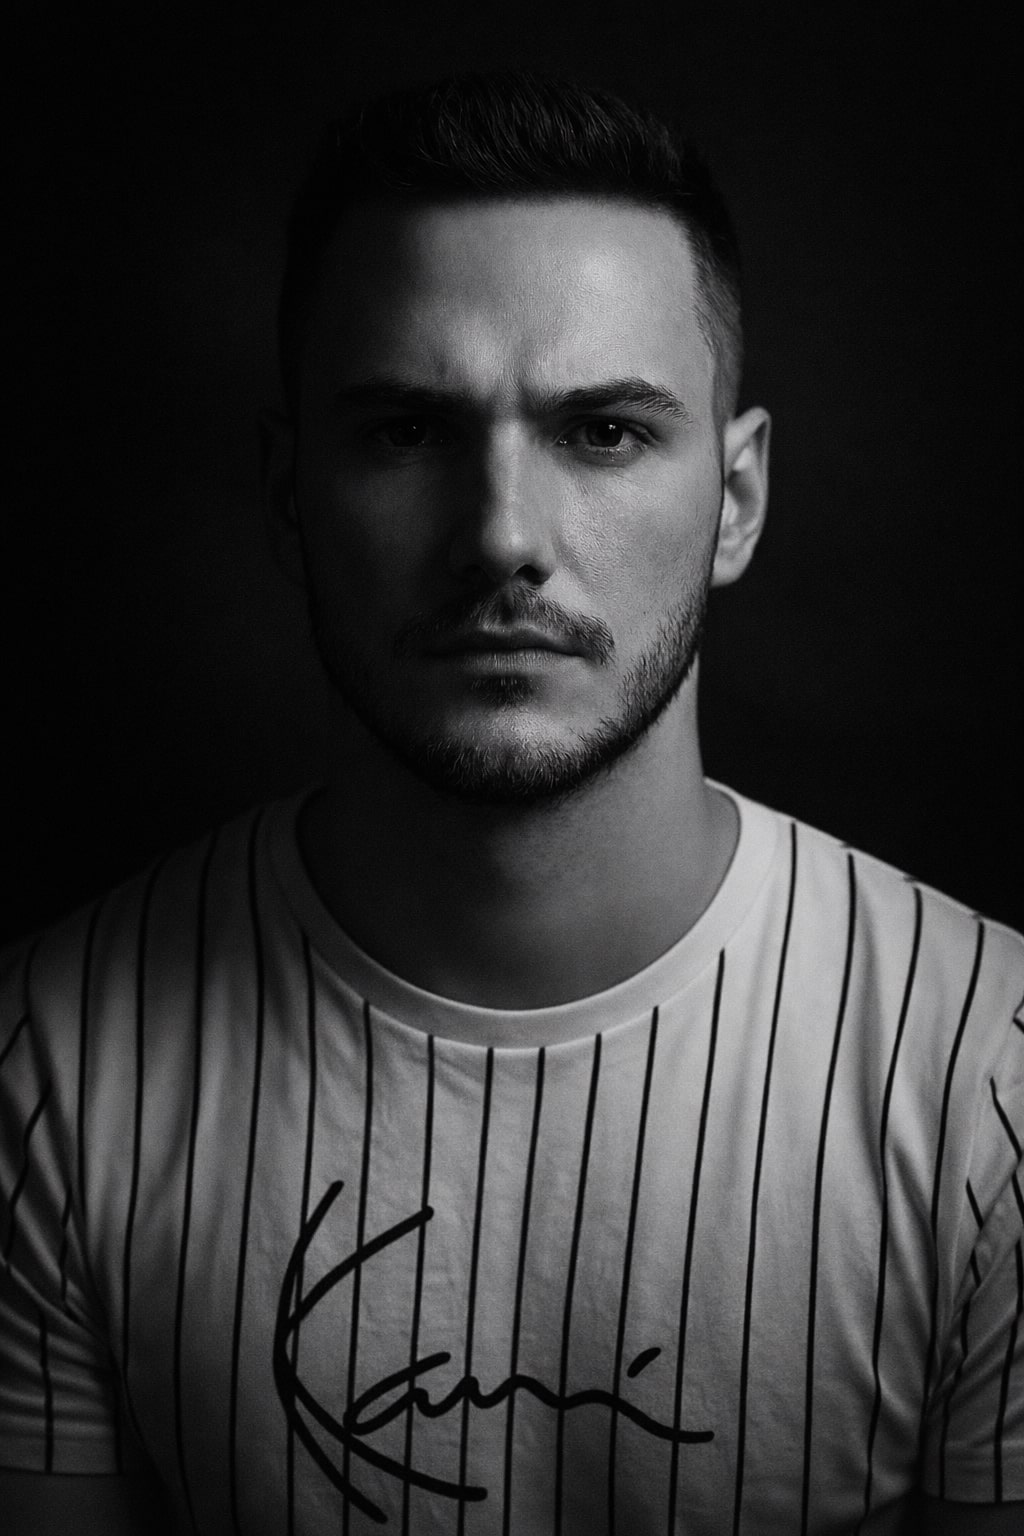
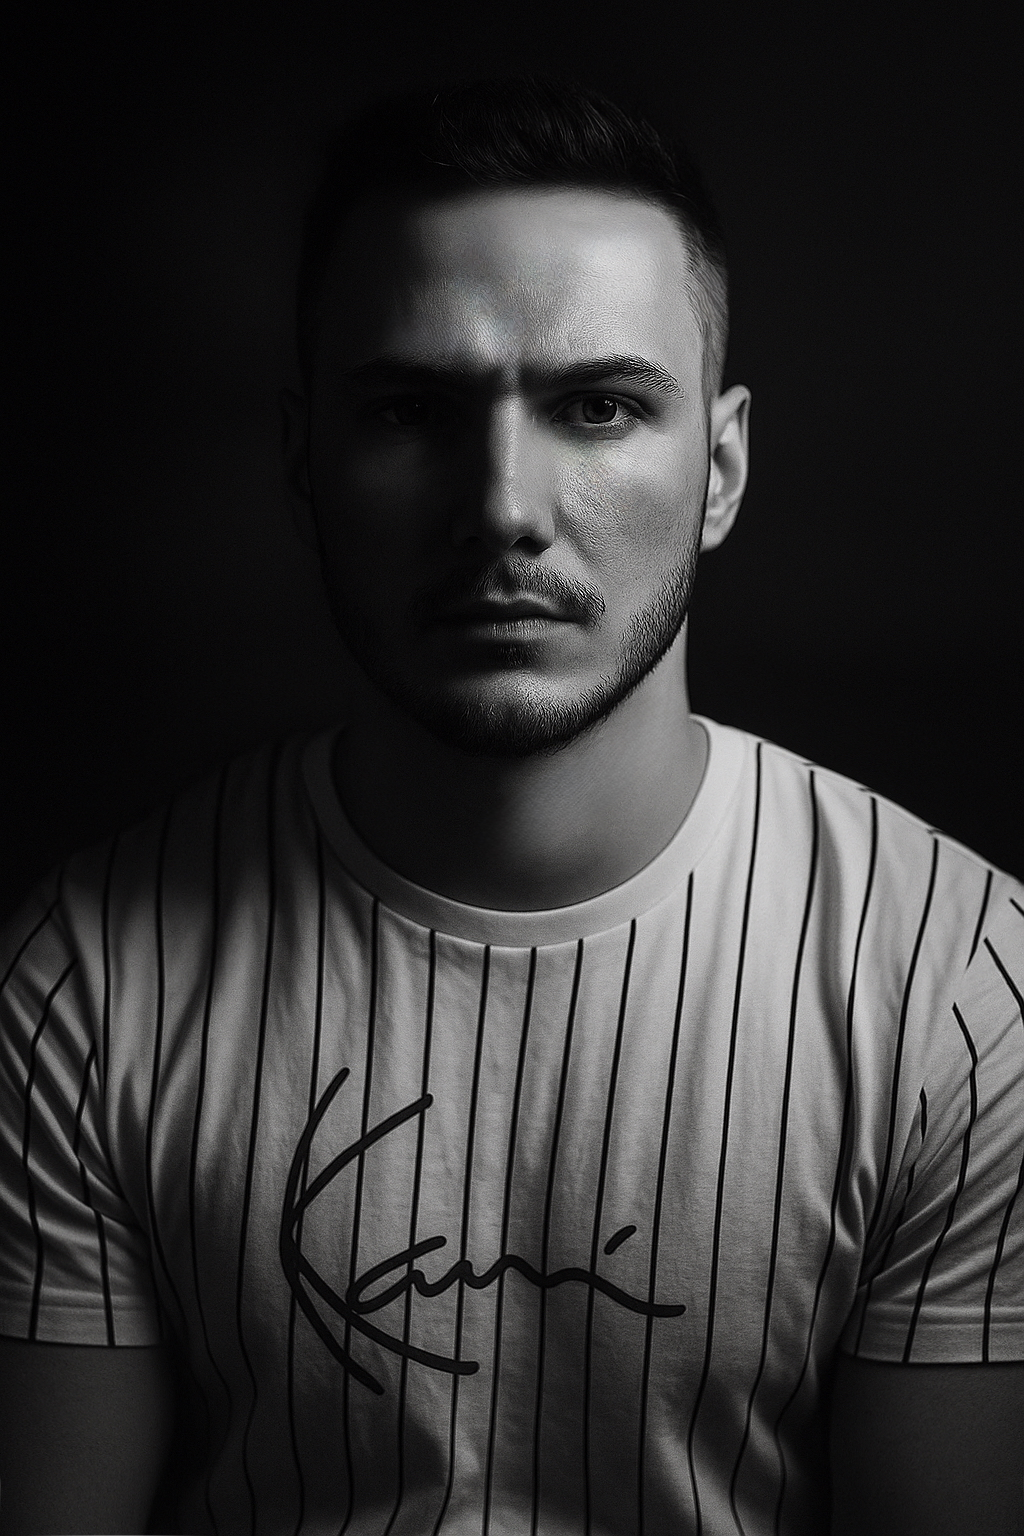
feat(design-lab): Added perspective transition animation

diff --git a/apps/design-lab/app/animations/perspective-transition/page.tsx b/apps/design-lab/app/animations/perspective-transition/page.tsx
@@ -1,0 +1,105 @@
+'use client';
+
+import BackButton from '@/components/buttons/BackButton';
+import DescriptionSection from '@/features/perspective-transition/components/DescriptionSection';
+import ImageSection from '@/features/perspective-transition/components/ImageSection';
+import PerspectivePanel from '@/features/perspective-transition/components/PerspectivePanel';
+import {
+  PERSPECTIVE_SLIDES,
+  PerspectiveSlide
+} from '@/features/perspective-transition/constants';
+import { useScroll } from '@repo/ui/animation';
+import ReactLenis from 'lenis/react';
+import { useRef } from 'react';
+
+// height of each panel, in viewport screens — bigger = pinned (sticky) longer.
+// images get more so they linger before the next panel folds over.
+const SCREENS = { description: 1.4, image: 2.4 };
+
+type Panel = {
+  key: string;
+  slide: PerspectiveSlide;
+  kind: 'description' | 'image';
+  height: number; // vh
+  // scroll-progress ranges where this panel scales in / folds away (null at the ends)
+  enter: [number, number] | null;
+  leave: [number, number] | null;
+};
+
+// The layout is fully derived from the (static) slides, so build it once:
+// each slide -> a description panel then its image panel, laid out by height,
+// with each panel's enter/leave windows derived from its top offset. The fold
+// transition is always a one-viewport slide; a panel's extra height is dwell.
+const PANELS: Panel[] = (() => {
+  const specs = PERSPECTIVE_SLIDES.flatMap((slide) => [
+    {
+      key: `${slide.image}-desc`,
+      slide,
+      kind: 'description' as const,
+      height: SCREENS.description * 100
+    },
+    {
+      key: `${slide.image}-img`,
+      slide,
+      kind: 'image' as const,
+      height: SCREENS.image * 100
+    }
+  ]);
+
+  const denom = specs.reduce((sum, p) => sum + p.height, 0) - 100;
+
+  let top = 0;
+  return specs.map((spec, i) => {
+    const next = top + spec.height;
+    const enter: [number, number] | null =
+      i === 0 ? null : [(top - 100) / denom, top / denom];
+    const leave: [number, number] | null =
+      i === specs.length - 1 ? null : [(next - 100) / denom, next / denom];
+    top = next;
+    return { ...spec, enter, leave };
+  });
+})();
+
+const PerspectiveTransitionPage = () => {
+  const container = useRef<HTMLDivElement>(null);
+
+  const { scrollYProgress } = useScroll({
+    target: container,
+    offset: ['start start', 'end end']
+  });
+
+  return (
+    <ReactLenis root options={{ lerp: 0.05 }}>
+      <BackButton className="fixed top-5 left-5 z-50" />
+      <main ref={container} className="relative bg-neutral-900">
+        {PANELS.map((panel) => (
+          // tall wrapper supplies the scroll distance; the sticky panel inside
+          // stays pinned full-screen across it, so the next panel only arrives
+          // once you've scrolled past this height.
+          <div key={panel.key} style={{ height: `${panel.height}vh` }}>
+            <PerspectivePanel
+              enter={panel.enter}
+              leave={panel.leave}
+              progress={scrollYProgress}
+            >
+              {panel.kind === 'description' ? (
+                <DescriptionSection
+                  title={panel.slide.title}
+                  description={panel.slide.description}
+                  color={panel.slide.color}
+                />
+              ) : (
+                <ImageSection
+                  image={panel.slide.image}
+                  alt={panel.slide.title}
+                />
+              )}
+            </PerspectivePanel>
+          </div>
+        ))}
+      </main>
+    </ReactLenis>
+  );
+};
+
+export default PerspectiveTransitionPage;

diff --git a/apps/design-lab/features/perspective-transition/components/DescriptionSection.tsx b/apps/design-lab/features/perspective-transition/components/DescriptionSection.tsx
@@ -1,0 +1,62 @@
+'use client';
+
+import { Variants } from '@repo/ui/animation';
+import {
+  AnimatedDiv,
+  AnimatedSubTitle,
+  AnimatedText
+} from '@repo/ui/animation/core';
+
+const container: Variants = {
+  hidden: {},
+  visible: {
+    transition: { staggerChildren: 0.12, delayChildren: 0.1 }
+  }
+};
+
+const item: Variants = {
+  hidden: { opacity: 0, y: 32 },
+  visible: {
+    opacity: 1,
+    y: 0,
+    transition: { duration: 0.7, ease: [0.22, 1, 0.36, 1] }
+  }
+};
+
+// Content of a description panel — the panel wrapper owns the scroll transforms.
+// The text staggers in (fade up from below) whenever the panel scrolls into view.
+const DescriptionSection = ({
+  title,
+  description,
+  color
+}: {
+  title: string;
+  description: string;
+  color: string;
+}) => {
+  return (
+    <AnimatedDiv
+      style={{ backgroundColor: color }}
+      className="flex h-full w-full flex-col items-center justify-center gap-6 px-6 text-center text-white"
+      variants={container}
+      initial="hidden"
+      whileInView="visible"
+      viewport={{ once: false, amount: 0.6 }}
+    >
+      <AnimatedSubTitle
+        variants={item}
+        className="max-w-4xl text-[8vw] leading-none font-semibold md:text-[4vw]"
+      >
+        {title}
+      </AnimatedSubTitle>
+      <AnimatedText
+        variants={item}
+        className="max-w-xl text-base text-white/75 md:text-lg"
+      >
+        {description}
+      </AnimatedText>
+    </AnimatedDiv>
+  );
+};
+
+export default DescriptionSection;

diff --git a/apps/design-lab/features/perspective-transition/components/PerspectivePanel.tsx b/apps/design-lab/features/perspective-transition/components/PerspectivePanel.tsx
@@ -1,0 +1,55 @@
+'use client';
+
+import { MotionValue, useTransform } from '@repo/ui/animation';
+import { AnimatedDiv } from '@repo/ui/animation/core';
+import { ReactNode } from 'react';
+
+const PerspectivePanel = ({
+  enter,
+  leave,
+  progress,
+  children
+}: {
+  enter: [number, number] | null;
+  leave: [number, number] | null;
+  progress: MotionValue<number>;
+  children: ReactNode;
+}) => {
+  const pts: number[] = [];
+  const scaleKf: number[] = [];
+  const rotateKf: number[] = [];
+
+  if (enter) {
+    pts.push(enter[0], enter[1]);
+    scaleKf.push(0.8, 1);
+    rotateKf.push(5, 0);
+  } else {
+    pts.push(0);
+    scaleKf.push(1);
+    rotateKf.push(0);
+  }
+
+  if (leave) {
+    pts.push(leave[0], leave[1]);
+    scaleKf.push(1, 0.8);
+    rotateKf.push(0, -5);
+  } else {
+    pts.push(1);
+    scaleKf.push(1);
+    rotateKf.push(0);
+  }
+
+  const scale = useTransform(progress, pts, scaleKf);
+  const rotate = useTransform(progress, pts, rotateKf);
+
+  return (
+    <AnimatedDiv
+      style={{ scale, rotate }}
+      className="sticky top-0 h-screen w-full overflow-hidden"
+    >
+      {children}
+    </AnimatedDiv>
+  );
+};
+
+export default PerspectivePanel;

diff --git a/apps/design-lab/app/page.tsx b/apps/design-lab/app/page.tsx
@@ -17,6 +17,7 @@ import { PageName } from '@/utils/constants/page.data';
 import { PageVisitTracker } from '@analytics/components/PageVisitTracker';
 import { AnimatedDiv } from '@repo/ui/animation/core';
 import Image from 'next/image';
+import Link from 'next/link';
 
 export default function Home() {
   return (
@@ -29,12 +30,18 @@ export default function Home() {
           <Header title="Design Lab" />
           <div className="flex items-center justify-center gap-2">
             by{' '}
-            <Image
-              height={100}
-              width={150}
-              src={'/images/tilt-card/Logo.png'}
-              alt="logo"
-            />
+            <Link
+              href="https://nejcfurh.dev"
+              target="_blank"
+              className="z-50 cursor-pointer transition-opacity duration-300 hover:opacity-80"
+            >
+              <Image
+                height={100}
+                width={150}
+                src={'/images/tilt-card/Logo.png'}
+                alt="logo"
+              />
+            </Link>
           </div>
         </AnimatedDiv>
 

diff --git a/apps/design-lab/features/perspective-transition/constants.ts b/apps/design-lab/features/perspective-transition/constants.ts
@@ -1,0 +1,30 @@
+export type PerspectiveSlide = {
+  image: string;
+  title: string;
+  description: string;
+  color: string;
+};
+
+export const PERSPECTIVE_SLIDES: PerspectiveSlide[] = [
+  {
+    image: '/images/perspective-transition/photo1.jpg',
+    title: 'Quiraing, Isle of Skye',
+    description:
+      "Morning mist pours over the green escarpments of Scotland's Trotternish Ridge as the first light breaks through the clouds.",
+    color: '#1e3a2f'
+  },
+  {
+    image: '/images/perspective-transition/photo2.jpg',
+    title: 'Lake Atitlán, Guatemala',
+    description:
+      'Volcanoes keep watch over still water while a violet dusk melts into gold behind the highlands.',
+    color: '#3a1d5c'
+  },
+  {
+    image: '/images/perspective-transition/photo3.jpg',
+    title: 'Bisti Badlands, New Mexico',
+    description:
+      'The Milky Way arches over ancient sandstone hoodoos beneath one of the darkest skies in America.',
+    color: '#141a33'
+  }
+];

diff --git a/apps/design-lab/constants/constants.tsx b/apps/design-lab/constants/constants.tsx
@@ -18,6 +18,7 @@ import { SlLayers } from 'react-icons/sl';
 import {
   TbCarouselHorizontal,
   TbDragDrop,
+  TbPerspective,
   TbRipple,
   TbTransitionBottomFilled
 } from 'react-icons/tb';
@@ -88,6 +89,12 @@ export const ANIMATIONS_DATA: MainPageItem[] = [
     path: '/animations/ripple-shader',
     icon: <TbRipple />,
     color: 'from-cyan-500 to-blue-600'
+  },
+  {
+    name: 'Perspective Transition',
+    path: '/animations/perspective-transition',
+    icon: <TbPerspective />,
+    color: 'from-pink-500 to-gray-500'
   }
 ];
 

diff --git a/apps/design-lab/features/perspective-transition/components/ImageSection.tsx b/apps/design-lab/features/perspective-transition/components/ImageSection.tsx
@@ -1,0 +1,17 @@
+import Image from 'next/image';
+
+const ImageSection = ({ image, alt }: { image: string; alt: string }) => {
+  return (
+    <div className="relative h-full w-full">
+      <Image
+        src={image}
+        alt={alt}
+        fill
+        sizes="100vw"
+        className="object-cover"
+      />
+    </div>
+  );
+};
+
+export default ImageSection;

diff --git a/apps/design-lab/app/animations/tilt-card/page.tsx b/apps/design-lab/app/animations/tilt-card/page.tsx
@@ -32,7 +32,7 @@ export default function TiltCardPage() {
           <HolographicCard
             name="Nejc Furh"
             title="Product Engineer"
-            imageUrl="/images/tilt-card/portrait.png"
+            imageUrl="/images/tilt-card/portrait.jpeg"
             logo="/images/tilt-card/bb-logo-vertical.svg"
           />
         </div>
